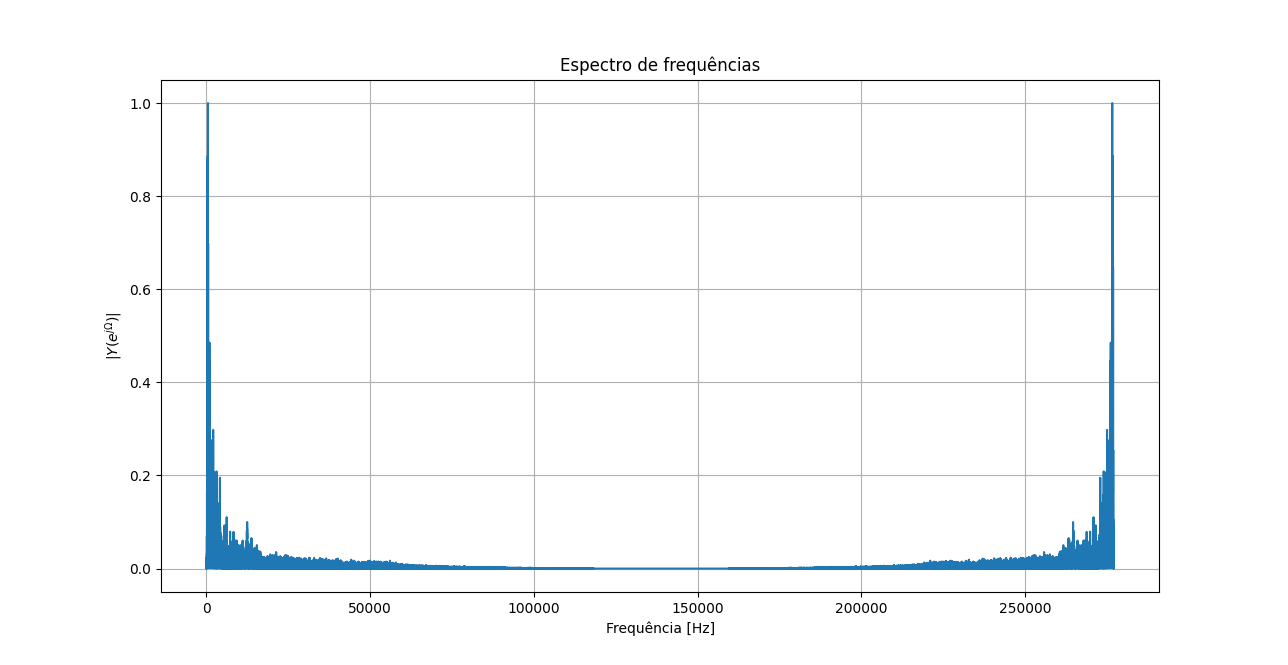
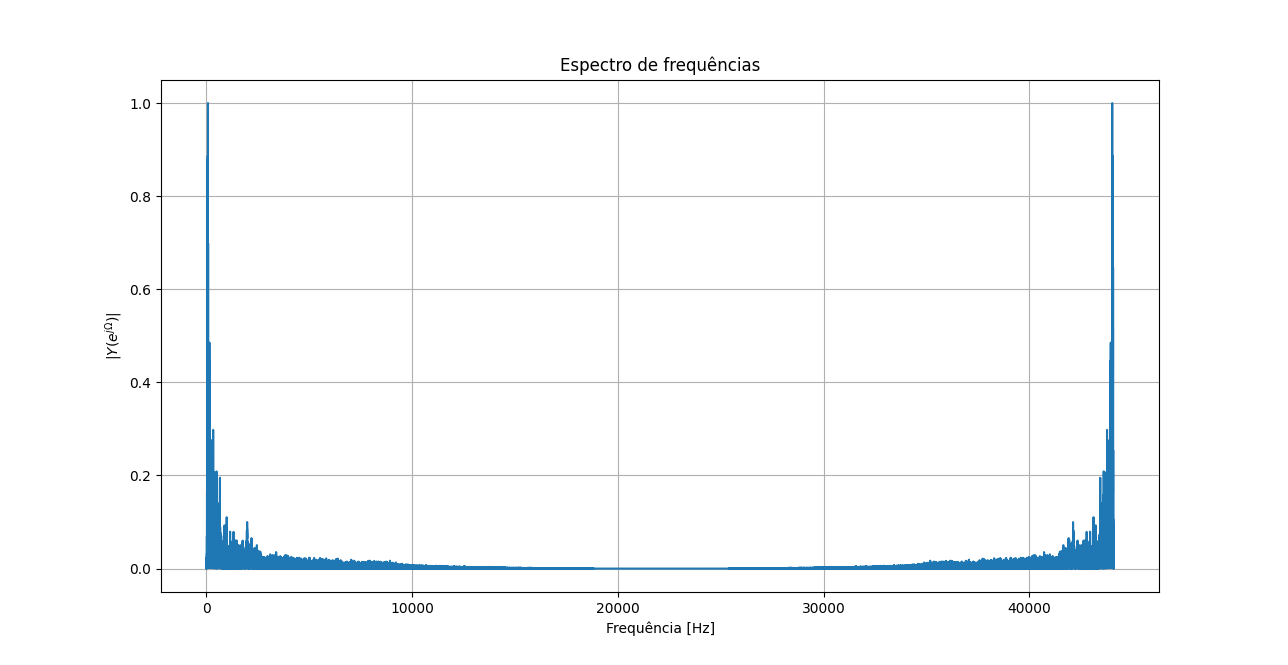
qG

diff --git a/efc4/questaoC.py b/efc4/questaoC.py
@@ -4,43 +4,18 @@ import IPython.display as ipd
 from scipy.io import wavfile
 import matplotlib.pyplot as plt
 
-""" Rotina que exibe o espectro de magnitude (X(ejw)) de um sinal discreto """
-
-def espectro(y):
-    # modulo da transf. de Fourier
-    Y = np.abs(np.fft.fft(y))
-    # frequencias avaliadas
-    w = np.linspace(0, 2 * math.pi, len(Y))
-    
-    # exibe o grafico do espectro
-    plt.figure()
-    plt.plot(w, Y / np.max(Y))
-
-    plt.title("Espectro de frequências")
-    plt.xlabel('$\Omega$ [rad]', fontsize=10)
-    plt.ylabel('|$Y(e^{j\Omega})$|', fontsize=10)
-
-    plt.grid(True)
-    plt.xlim((0, 2 * math.pi))
-    
-    plt.show()
-
-    return Y, w
-
 def decimacao(y):
     yDec = []
     for position, value in enumerate(y):
         if not(position % 6):
             yDec.append(value)
-
-    espectro(yDec)
-
+    return(yDec)
 
 # Fs -  Taxa de amostragem
 
-#Fs, y = wavfile.read("creed_overcome.wav")
+Fs, y = wavfile.read("creed_overcome.wav")
 
-#y=(y[:,0]+y[:,1])/2
-#decimacao(y)
+y=(y[:,0]+y[:,1])/2
 
-ipd.Audio("creed_overcome.wav",rate=44100)
+#ipd.Audio(data=y,rate=Fs, autoplay=True)
+ipd.Audio(data=decimacao(y),rate=Fs/6, autoplay=True)

diff --git a/efc4/questaoG.py b/efc4/questaoG.py
@@ -9,7 +9,7 @@ with open("./EEG.txt", "r") as f:
 freq = np.linspace(0,125,len(eeg))
 
 Y = abs(np.fft.fft(np.array(eeg)))
-
+print(len(Y))
 print("Índice 'k' do maior módulo:", Y[:int(len(Y)/2)].argmax())
 print("Valor da transformada nesse ponto:", Y[:int(len(Y)/2)].max())
 print("Frequência associada ao índice:", freq[Y[:int(len(Y)/2)].argmax()])

diff --git a/efc4/questaoF.py b/efc4/questaoF.py
@@ -1,6 +1,7 @@
 import numpy as np
 from scipy.io import wavfile
 from questaoD import kaiser
+import IPython.display as ipd
 import matplotlib.pyplot as plt
 
 def espectro(y):
@@ -38,3 +39,5 @@ plt.ylabel('|$Y(e^{j\Omega})$|', fontsize=10)
 
 plt.grid(True)
 plt.show()
+
+ipd.Audio(data=decimacao(y),rate=Fs/6, autoplay=True)

diff --git a/efc4/questaoA.py b/efc4/questaoA.py
@@ -11,7 +11,7 @@ def espectro(y, fs):
     # frequencias avaliadas
     w = np.linspace(0, 2 * math.pi, len(Y))
 
-    f = w * fs
+    f = np.linspace(0, fs, len(Y))
 
     # exibe o grafico do espectro
     plt.figure()

diff --git a/efc4/questaoE.py b/efc4/questaoE.py
@@ -28,3 +28,5 @@ plt.ylabel('|$Y(e^{j\Omega})$|', fontsize=10)
 
 plt.grid(True)
 plt.show()
+
+ipd.Audio(data=filtrado,rate=Fs, autoplay=True)

diff --git a/efc4/questaoB.py b/efc4/questaoB.py
@@ -41,4 +41,3 @@ if __name__ == "__main__":
 
     y=(y[:,0]+y[:,1])/2
     decimacao(y)
-
